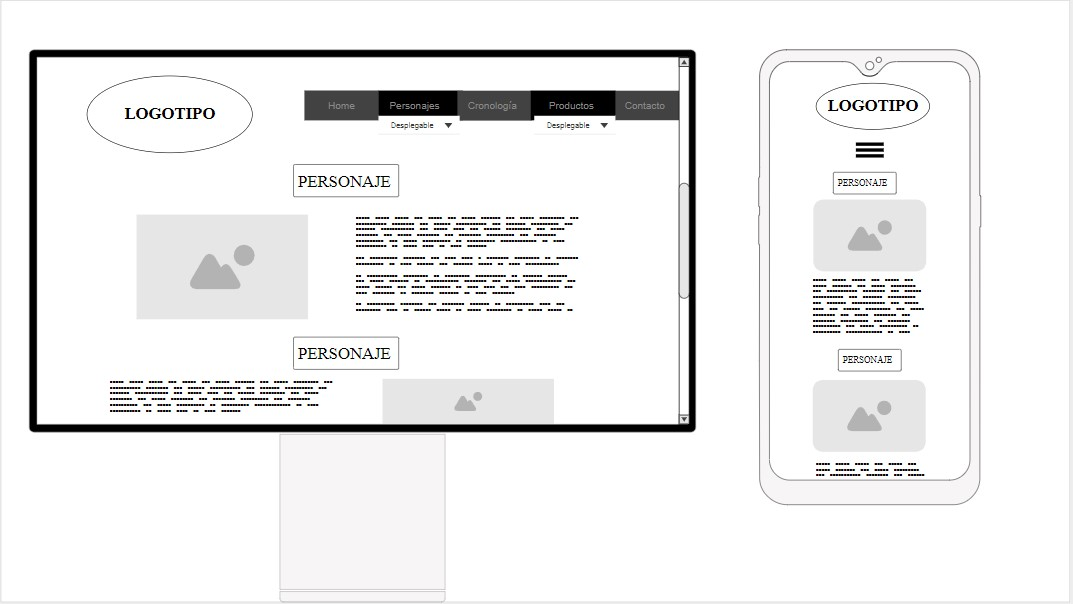
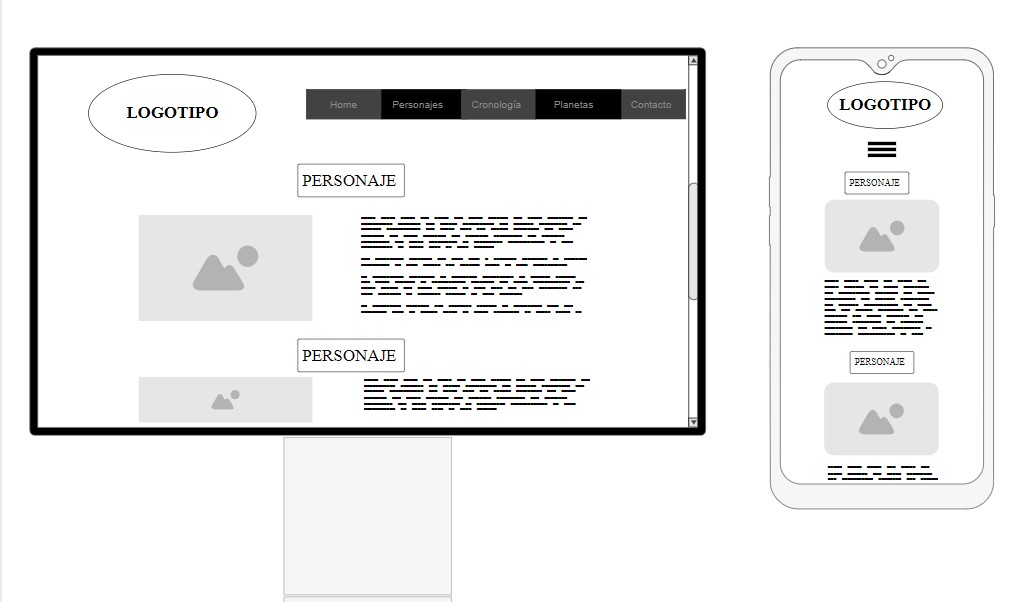
arreglo de link a

diff --git a/html/planetas.html b/html/planetas.html
@@ -41,38 +41,190 @@
     <section class="introduccion">
         <div>
             <h1 class="text-center display-1">Planetas</h1>
-            <p>"Aquí encontrarás una guía de cada uno de los planetas de Star Wars"</p>
+            <p>"En el universo de Star Wars, hay muchos planetas diferentes que sirven como escenarios para la historia. Aquí tienes una lista de algunos de los planetas más conocidos y significativos"</p>
         </div>
     </section>
     <div class="container">
         <div class="row">
-          <div class="col-md-12 d-flex justify-content-center align-items-center">
+          <div class="col-md-6 rounded mx-auto d-block">
             <img class="img-fluid" src="../img/planetas_fallen_order.jpg" alt="Planetas starwars">
           </div>
         </div>
     </div>
     </section>
-        <section class="mb-4">
-        <h2 class="text-center">nombre 1</h2>
-        <div class="row  d-flex justify-content-center">
-            <div class="col-10 col-md-4  me-md-3 border border-light">
-                <img class="img-fluid rounded" src="../img/Star_Wars_Logo.svg.png">
+        <section class="mb-4 Tatooine">
+            <h2 class="text-center">Tatooine</h2>
+            <div class="row  d-flex justify-content-center">
+                <div class="col-10 col-md-4  me-md-3">
+                    <div id="carouselExampleControls" class="carousel slide" data-ride="carousel">
+                        <div class="carousel-inner">
+                          <div class="carousel-item active">
+                            <img src="../img/tatooine_1.webp" class="d-block w-100" alt="Imagen 1">
+                          </div>
+                          <div class="carousel-item">
+                            <img src="../img/tatooine_2.jpg" class="d-block w-100" alt="Imagen 2">
+                          </div>
+                          <div class="carousel-item">
+                            <img src="../img/tatooine_3.jpg" class="d-block w-100" alt="Imagen 3">
+                          </div>
+                          <div class="carousel-item">
+                            <img src="../img/tatooine_4.jpg" class="d-block w-100" alt="Imagen 3">
+                          </div>
+                        </div>
+                        <a class="carousel-control-prev" href="#carouselExampleControls" role="button" data-slide="prev">
+                          <span class="carousel-control-prev-icon" aria-hidden="true"></span>
+                          <span class="sr-only">Previous</span>
+                        </a>
+                        <a class="carousel-control-next" href="#carouselExampleControls" role="button" data-slide="next">
+                          <span class="carousel-control-next-icon" aria-hidden="true"></span>
+                          <span class="sr-only">Next</span>
+                        </a>
+                      </div>
+                </div>
+                <div class="explicacion col-10 col-md-5  ms-md-3">   
+                    <p>Geografía: Tatooine es un planeta desértico ubicado en el sistema Binario de Tatoo, en los Territorios del Borde Exterior de la galaxia. Es conocido por sus vastos desiertos, dunas de arena y altas temperaturas debido a sus dos soles, Tatoo I y Tatoo II. Las ciudades están construidas en las áreas subterráneas para escapar del calor.</p>
+
+                    <p>Población: Tatooine está habitado por una variedad de especies, pero los dos grupos más destacados son los humanos y los jawas, pequeños seres con ojos luminosos y una afición por la chatarra. Los habitantes humanos de Tatooine a menudo se dedican a actividades como la agricultura de humedad y la caza de recompensas.</p>
+                        
+                    <p>Importancia en la trama: Tatooine es conocido por ser el lugar de origen de Anakin Skywalker, quien más tarde se convirtió en Darth Vader, y de su hijo, Luke Skywalker, quien se convirtió en uno de los héroes clave de la saga. En "Una Nueva Esperanza", Luke vive con su tío Owen Lars y su tía Beru en una granja de humedad en Tatooine antes de embarcarse en su aventura para unirse a la Rebelión contra el Imperio Galáctico. También es el lugar donde C-3PO y R2-D2 aterrizan en su nave y comienzan su viaje hacia la historia.</p>
+                        
+                    <p>Crimen y actividad criminal: Tatooine es conocido por ser un refugio para contrabandistas, cazarrecompensas y otros criminales. La notoriedad de la Mos Eisley Cantina, ubicada en la ciudad de Mos Eisley, es un ejemplo de la vida delictiva en el planeta.</p>
+                        
+                    <p>Las Carreras de Pods: Tatooine es famoso por sus peligrosas carreras de pods, en las que pilotos compiten con vehículos conocidos como pods en peligrosos circuitos en el desierto. Anakin Skywalker participó en una carrera de pods en "La Amenaza Fantasma" y se convirtió en una de las figuras más legendarias de la historia de las carreras.</p>
+                </div>
             </div>
-            <div class="col-10 col-md-5  ms-md-3 border border-light">   
-                <p>Lorem ipsum dolor sit amet consectetur adipisicing elit. Voluptas praesentium laudantium suscipit, quod, laboriosam tenetur autem ea esse unde ipsa necessitatibus eos natus saepe molestiae id placeat quas ab minus.</p>
-            </div>
-        </div>
         </section>
-        <section class="mb-4">
-        <h2 class="text-center">nombre 1</h2>
-        <div class="row  d-flex justify-content-center">
-            <div class="col-10 col-md-4  me-md-3 border border-light">
-                <img class="img-fluid rounded" src="../img/Star_Wars_Logo.svg.png">
+        <section class="mb-4 Coruscant">
+            <h2 class="text-center">Coruscant</h2>
+            <div class="row  d-flex justify-content-center">
+                <div class="col-10 col-md-4  me-md-3">
+                    <div id="carouselExampleControls" class="carousel slide" data-ride="carousel">
+                        <div class="carousel-inner">
+                          <div class="carousel-item active">
+                            <img src="../img/coruscant_1.webp" class="d-block w-100" alt="Imagen 1">
+                          </div>
+                          <div class="carousel-item">
+                            <img src="../img/coruscant_2.jpg" class="d-block w-100" alt="Imagen 2">
+                          </div>
+                          <div class="carousel-item">
+                            <img src="../img/coruscant_3.jpg" class="d-block w-100" alt="Imagen 3">
+                          </div>
+                          <div class="carousel-item">
+                            <img src="../img/coruscant_4.png" class="d-block w-100" alt="Imagen 3">
+                          </div>
+                        </div>
+                        <a class="carousel-control-prev" href="#carouselExampleControls" role="button" data-slide="prev">
+                          <span class="carousel-control-prev-icon" aria-hidden="true"></span>
+                          <span class="sr-only">Previous</span>
+                        </a>
+                        <a class="carousel-control-next" href="#carouselExampleControls" role="button" data-slide="next">
+                          <span class="carousel-control-next-icon" aria-hidden="true"></span>
+                          <span class="sr-only">Next</span>
+                        </a>
+                      </div>
+                </div>
+                <div class="explicacion col-10 col-md-5  ms-md-3">   
+                    <p>Geografía: Coruscant es un planeta ciudad ubicado en la región del Núcleo de la galaxia. Es conocido como el corazón de la República Galáctica y, posteriormente, del Imperio Galáctico. En lugar de poseer extensas superficies naturales, Coruscant está completamente cubierto por una inmensa ciudad que se extiende hasta las capas más profundas, donde la luz del sol apenas llega debido a la vasta arquitectura y la contaminación lumínica.</p>
+
+                    <p>Población: Siendo el centro político, cultural y económico de la galaxia, Coruscant alberga una población diversa compuesta por una amplia variedad de especies y culturas. Millones de seres vivos, incluidos humanos, alienígenas y droides, viven y trabajan en esta metrópolis galáctica.</p>
+                        
+                    <p>Importancia en la trama: Coruscant es el epicentro político de la galaxia. Sirve como la sede de la República Galáctica en las precuelas de la trilogía original y, más tarde, se convierte en la capital del Imperio Galáctico bajo el reinado del Emperador Palpatine. Es el lugar donde el Senado Galáctico se reúne para tomar decisiones importantes y donde se encuentran las sedes de las instituciones gubernamentales clave.</p>
+                        
+                    <p>Cultura y vida urbana: Coruscant es una ciudad masiva y bulliciosa, llena de rascacielos imponentes y enormes plataformas flotantes. Cada nivel de la ciudad representa diferentes estratos sociales, desde los niveles superiores, que son opulentos y lujosos, hasta los niveles más bajos y oscuros, donde la pobreza y el crimen prevalecen. </p>
+                        
+                    <p>Centro de poder: Además de ser la sede del gobierno, Coruscant es un importante centro cultural y económico. Es hogar de la Orden Jedi, con su Templo Jedi situado en un lugar destacado. La ciudad es un lugar de encuentro para comerciantes, diplomáticos, contrabandistas y cazadores de recompensas.</p>
+
+                    <p>A lo largo de la saga, Coruscant es un lugar donde se desarrollan eventos significativos, como el ascenso de Emperador Palpatine al poder y la caída de la República. Es un planeta que representa tanto la gloria y la opulencia como las sombras y la corrupción en el universo de Star Wars.</p>
+                </div>
             </div>
-            <div class="col-10 col-md-5  ms-md-3 border border-light">   
-                <p>Lorem ipsum dolor sit amet consectetur adipisicing elit. Voluptas praesentium laudantium suscipit, quod, laboriosam tenetur autem ea esse unde ipsa necessitatibus eos natus saepe molestiae id placeat quas ab minus.</p>
+        </section>
+        <section class="mb-4 Naboo">
+            <h2 class="text-center">Naboo</h2>
+            <div class="row  d-flex justify-content-center">
+                <div class="col-10 col-md-4  me-md-3">
+                    <div id="carouselExampleControls" class="carousel slide" data-ride="carousel">
+                        <div class="carousel-inner">
+                          <div class="carousel-item active">
+                            <img src="../img/naboo_1.png" class="d-block w-100" alt="Imagen 1">
+                          </div>
+                          <div class="carousel-item">
+                            <img src="../img/naboo_2.jpg" class="d-block w-100" alt="Imagen 2">
+                          </div>
+                          <div class="carousel-item">
+                            <img src="../img/naboo_3.jpg" class="d-block w-100" alt="Imagen 3">
+                          </div>
+                          <div class="carousel-item">
+                            <img src="../img/naboo_4.webp" class="d-block w-100" alt="Imagen 3">
+                          </div>
+                        </div>
+                        <a class="carousel-control-prev" href="#carouselExampleControls" role="button" data-slide="prev">
+                          <span class="carousel-control-prev-icon" aria-hidden="true"></span>
+                          <span class="sr-only">Previous</span>
+                        </a>
+                        <a class="carousel-control-next" href="#carouselExampleControls" role="button" data-slide="next">
+                          <span class="carousel-control-next-icon" aria-hidden="true"></span>
+                          <span class="sr-only">Next</span>
+                        </a>
+                      </div>
+                </div>
+                <div class="explicacion col-10 col-md-5  ms-md-3">   
+                    <p>Geografía: Naboo es un planeta ubicado en la región de los Territorios del Borde Medio de la galaxia. Es conocido por su belleza natural, con una variedad de paisajes que incluyen ciudades, colinas, montañas, selvas y lagos. Los campos de fuerza generados por tecnología avanzada mantienen las ciudades a salvo de las inclemencias del clima.</p>
+
+                    <p>Población: Naboo está habitado por una diversa población de seres humanos y especies alienígenas, como los gungans, que viven en ciudades submarinas. Los humanos de Naboo son conocidos por su elegancia y cultura refinada.</p>
+                        
+                    <p>Importancia en la trama: Naboo es el planeta natal de la Reina Amidala (Padmé) y el Emperador Palpatine (antes de su ascenso). La película "La Amenaza Fantasma" se centra en la invasión de Naboo por la Federación de Comercio y en los esfuerzos de Padmé y los Jedi para liberar el planeta. Los eventos en Naboo son un catalizador para la creación de la Alianza Rebelde.</p>
+                        
+                    <p>Cultura y arquitectura: Naboo es conocido por su arquitectura elegante y su enfoque en la estética. Sus ciudades están diseñadas con influencias clásicas y artísticas, con edificios ornamentados y hermosos paisajes. La capital, Theed, es un ejemplo destacado de esta estética.</p>
+                        
+                    <p>Relación con los Gungans: Aunque al principio hay tensiones entre los habitantes humanos y los gungans, ambos grupos finalmente se unen para defender su planeta de la invasión. Esta unión simboliza la importancia de superar las diferencias y trabajar juntos.</p>
+
+                    <p>Naboo es un planeta que refleja una mezcla única de belleza natural, cultura sofisticada y desafíos políticos. Su papel en la trama de Star Wars subraya cómo los eventos en un solo planeta pueden tener un impacto significativo en la galaxia en su conjunto.</p>
+                </div>
             </div>
-        </div>
+        </section>
+        <section class="mb-4 Lothal">
+            <h2 class="text-center">Lothal</h2>
+            <div class="row  d-flex justify-content-center">
+                <div class="col-10 col-md-4  me-md-3">
+                    <div id="carouselExampleControls" class="carousel slide" data-ride="carousel">
+                        <div class="carousel-inner">
+                          <div class="carousel-item active">
+                            <img src="../img/lothal_1.webp" class="d-block w-100" alt="Imagen 1">
+                          </div>
+                          <div class="carousel-item">
+                            <img src="../img/lothal_2.jpg" class="d-block w-100" alt="Imagen 2">
+                          </div>
+                          <div class="carousel-item">
+                            <img src="../img/lothal_3.webp" class="d-block w-100" alt="Imagen 3">
+                          </div>
+                          <div class="carousel-item">
+                            <img src="../img/lothal_4.png   " class="d-block w-100" alt="Imagen 3">
+                          </div>
+                        </div>
+                        <a class="carousel-control-prev" href="#carouselExampleControls" role="button" data-slide="prev">
+                          <span class="carousel-control-prev-icon" aria-hidden="true"></span>
+                          <span class="sr-only">Previous</span>
+                        </a>
+                        <a class="carousel-control-next" href="#carouselExampleControls" role="button" data-slide="next">
+                          <span class="carousel-control-next-icon" aria-hidden="true"></span>
+                          <span class="sr-only">Next</span>
+                        </a>
+                      </div>
+                </div>
+                <div class="explicacion col-10 col-md-5  ms-md-3">   
+                    <p>Geografía: Lothal es un planeta ubicado en la región de los Territorios del Borde Exterior de la galaxia. Es conocido por sus vastas llanuras, colinas y sabanas. La geografía variada incluye cañones y ríos que recorren la superficie del planeta.</p>
+
+                    <p>Población: Lothal tiene una población diversa compuesta principalmente por humanos, muchos de los cuales se dedican a actividades agrícolas y mineras. La extracción de minerales y la agricultura son actividades económicas fundamentales para el planeta.</p>
+                        
+                    <p>Importancia en la trama: Lothal desempeña un papel central en la serie animada "Star Wars Rebels". Es el lugar donde un grupo de rebeldes, liderados por Ezra Bridger, lucha contra el Imperio Galáctico. Los rebeldes se esfuerzan por liberar a Lothal de la opresión imperial y establecer una base secreta en el planeta.</p>
+                        
+                    <p>Imperialización: Durante la era del Imperio Galáctico, Lothal es sometido a un control imperial severo. La ocupación imperial incluye la construcción de instalaciones como fábricas y bases militares. Los ciudadanos locales luchan por resistir la opresión y mantener su identidad cultural.</p>
+                        
+                    <p>Conexiones con el universo más amplio: A lo largo de "Star Wars Rebels", Lothal se conecta con eventos y personajes clave de la saga, como la Alianza Rebelde y Ahsoka Tano. La lucha de los rebeldes en Lothal se vincula con el crecimiento de la resistencia contra el Imperio.</p>
+
+                    <p>Lothal es un planeta que ilustra la lucha de las personas comunes contra un régimen opresivo y su importancia en la creación de la Rebelión. A través de sus personajes y trama, ofrece una perspectiva única de la galaxia en una época turbulenta.</p>
+                </div>
+            </div>
         </section>
     </section>
 

diff --git a/html/cronología.html b/html/cronología.html
@@ -43,32 +43,48 @@
             <h1 class="text-center display-1">Cronología</h1>
             <p>"Aquí encontrarás una guía de cómo ver la saga completa de Star Wars de manera cronológica, con una breve sinopsis de cada historia"</p>
         </div>
-        <div class="container">
-            <img src="../img/crono_3.jpg" class="img-fluid mx-auto" alt="Imagen centrada">
+    </section>
+    <section class="mb-4 episodio_1">
+        <h2 class="text-center">Star Wars: Episodio I - La Amenaza Fantasma (Pelicula)</h2>
+        <div class="row  d-flex justify-content-center">
+            <div class="col-10 col-md-4  me-md-3">
+                <img class="img-fluid rounded" src="../img/episodio_1.jpg">
+            </div>
+            <div class="col-10 col-md-5  ms-md-3">   
+                <p>Año de Lanzamiento: 1999</p>
+                <p>Director: George Lucas</p>
+                <p>Sinopsis: La película sigue a Qui-Gon Jinn y su aprendiz Obi-Wan Kenobi en su intento de proteger a la Reina Amidala de Naboo de una amenaza desconocida. Mientras tanto, descubren a Anakin Skywalker, un joven esclavo con un fuerte vínculo con la Fuerza, quien podría ser el Elegido destinado a traer equilibrio a la Fuerza.</p>
+                <p>Datos Adicionales: "La Amenaza Fantasma" es el comienzo de la trilogía de precuelas y explora los eventos que llevaron al surgimiento del Imperio Galáctico.</p>
+            </div>
         </div>
     </section>
-    <section class="mb-4">
-            <h2 class="text-center">nombre 1</h2>
-            <div class="row  d-flex justify-content-center">
-                <div class="col-10 col-md-4  me-md-3 border border-light">
-                    <img class="img-fluid rounded" src="../img/Star_Wars_Logo.svg.png">
-                </div>
-                <div class="col-10 col-md-5  ms-md-3 border border-light">   
-                    <p>Lorem ipsum dolor sit amet consectetur adipisicing elit. Voluptas praesentium laudantium suscipit, quod, laboriosam tenetur autem ea esse unde ipsa necessitatibus eos natus saepe molestiae id placeat quas ab minus.</p>
-                </div>
+    <section class="mb-4 episodio_2">
+        <h2 class="text-center">Star Wars: Episodio II - El Ataque de los Clones (Pelicula)</h2>
+        <div class="row  d-flex justify-content-center">
+            <div class="col-10 col-md-4  me-md-3">
+                <img class="img-fluid rounded" src="../img/episodio_2.jpg">
             </div>
+            <div class="col-10 col-md-5  ms-md-3">   
+                <p>Año de Lanzamiento: 2002</p>
+                <p>Director: George Lucas</p>
+                <p>Sinopsis: Diez años después de los eventos de "La Amenaza Fantasma", la galaxia está al borde de la guerra mientras los separatistas amenazan con dividirse de la República. Obi-Wan Kenobi y su ahora aprendiz Anakin Skywalker investigan un complot para asesinar a la Reina Amidala y descubren una conspiración mucho más grande.</p>
+                <p>Datos Adicionales: "El Ataque de los Clones" profundiza en la relación entre Anakin y Padmé Amidala mientras se intensifican los conflictos que eventualmente llevarán al surgimiento de Darth Vader.</p>
+            </div>
+        </div>
     </section>
-    <section class="mb-4">
-            <h2 class="text-center">nombre 1</h2>
-            <div class="row  d-flex justify-content-center">
-                <div class="col-10 col-md-4  me-md-3 border border-light">
-                    <img class="img-fluid rounded" src="../img/Star_Wars_Logo.svg.png">
-                </div>
-                <div class="col-10 col-md-5  ms-md-3 border border-light">   
-                    <p>Lorem ipsum dolor sit amet consectetur adipisicing elit. Voluptas praesentium laudantium suscipit, quod, laboriosam tenetur autem ea esse unde ipsa necessitatibus eos natus saepe molestiae id placeat quas ab minus.</p>
-                </div>
+    <section class="mb-4 guerras_clones">
+        <h2 class="text-center">Star Wars: Las Guerras Clon (Serie)</h2>
+        <div class="row  d-flex justify-content-center">
+            <div class="col-10 col-md-4  me-md-3">
+                <img class="img-fluid rounded" src="../img/guerras_clones.webp">
             </div>
-        </section>
+            <div class="col-10 col-md-5  ms-md-3">   
+                <p>Años de Lanzamiento: 2008-2020</p>
+                <p>Creadores: George Lucas (Concepto Original), Dave Filoni</p>
+                <p>Sinopsis: "Las Guerras Clon" narra los eventos entre los Episodios II y III, centrándose en los conflictos bélicos que estallan en la galaxia mientras los Jedi lideran a las fuerzas de la República contra los separatistas. La serie explora personajes clave, batallas épicas y el desarrollo de la guerra.</p>
+                <p>Datos Adicionales: La serie es conocida por expandir y enriquecer el universo de Star Wars, desarrollar personajes secundarios y presentar nuevos elementos de la historia.</p>
+            </div>
+        </div>
     </section>
 
     <footer>

diff --git a/html/index.html b/html/index.html
@@ -42,12 +42,6 @@
         <div>
             <h1 class="text-center display-1">Nosotros</h1>
             <P>"¡Bienvenido a nuestra página dedicada a Star Wars, creada por y para fanáticos como tú! Aquí, los fanáticos como tú encontrarán una guía exhaustiva de todos los personajes icónicos que han dejado su huella en la historia galáctica de Star Wars.
-
-            Sumérgete en el vasto universo de esta aclamada saga mientras te presentamos detalladamente a cada uno de los personajes, desde los legendarios Jedi y Sith hasta los valientes pilotos, contrabandistas y soldados que han protagonizado emocionantes aventuras en toda la galaxia.
-                
-            Nuestra guía te brindará información completa sobre el trasfondo, habilidades, motivaciones y momentos clave de cada personaje, lo que te permitirá conocerlos a fondo y apreciar su importancia en la trama general.
-                
-            Ya sea que estés interesado en los emblemáticos protagonistas como Luke Skywalker, Leia Organa y Han Solo, o si deseas explorar a los legendarios villanos como Darth Vader y el Emperador Palpatine, nuestra página te proporcionará una visión completa y detallada de cada uno de ellos.
                 
             Además de la guía de personajes, también encontrarás otros contenidos exclusivos, como detalles sobre las diferentes películas y series de Star Wars, información sobre las naves, planetas y tecnologías utilizadas en la saga, y análisis de momentos emblemáticos que han marcado la historia del cine y la cultura pop.
                 

diff --git a/html/personajes.html b/html/personajes.html
@@ -45,13 +45,7 @@
 
                 En esta página, te sumergirás en un emocionante viaje por el universo de la saga, donde descubrirás detalles fascinantes sobre los personajes que han cautivado a generaciones de fanáticos.
                 
-                Desde los legendarios héroes Jedi hasta los malvados Sith, pasando por los astutos contrabandistas y leales androides, cada personaje tiene su propia historia y contribución única a la trama épica de Star Wars.
-                
-                Nuestra guía exhaustiva te proporcionará información detallada sobre sus antecedentes, habilidades, motivaciones y momentos clave en la galaxia. Aprenderás a conocerlos en profundidad, comprender sus relaciones y cómo han moldeado la historia de Star Wars.
-                
-                Así que prepárate para adentrarte en un mundo lleno de aventuras y emociones mientras te presentamos a los protagonistas, antagonistas y personajes secundarios que han dejado su huella en esta legendaria saga.
-                
-                ¡Que la Fuerza te acompañe en este emocionante recorrido por la galaxia de Star Wars!"</p>
+                Desde los legendarios héroes Jedi hasta los malvados Sith, pasando por los astutos contrabandistas y leales androides, cada personaje tiene su propia historia y contribución única a la trama épica de Star Wars.</p>
         </div>
     </section>
     <section>

diff --git a/scss/style.scss b/scss/style.scss
@@ -34,6 +34,7 @@
   
   h2 {
     @include title-style(3em, "Solo", rgb(255, 232, 31), rgb(0, 0, 0));
+    margin: 20px;
   }
   
   h3 {
@@ -130,10 +131,6 @@ span.logo{
         padding: 150px 20px;
     }
 
-    h2{
-        margin-top: 0;
-    }
-
     p{
         display: flex;
         color: rgb(255, 232, 31);
@@ -210,7 +207,7 @@ footer{
     }
 
     .infosobre{
-        
+
         .accesos{
             display: flex;
             justify-content: center;

diff --git a/scss/style.css b/scss/style.css
@@ -22,6 +22,7 @@ h2 {
   font-family: "Solo";
   -webkit-text-stroke: 2px rgb(255, 232, 31);
   color: rgb(0, 0, 0);
+  margin: 20px;
 }
 
 h3 {
@@ -130,9 +131,6 @@ span.logo {
 }
 .infosobre .container {
   padding: 150px 20px;
-}
-.infosobre h2 {
-  margin-top: 0;
 }
 .infosobre p {
   display: flex;
